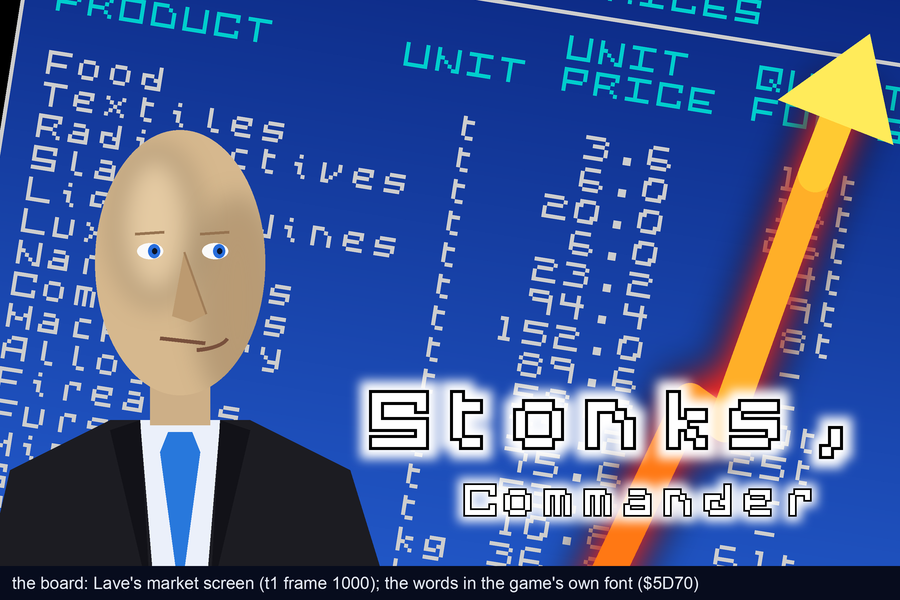
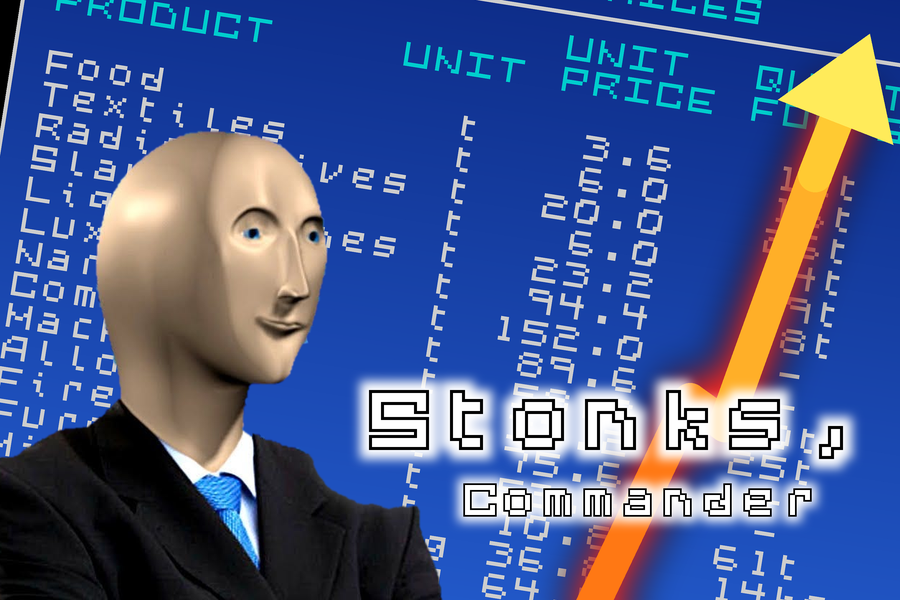
Elite trading guide: the original Meme Man in the Stonks, Commander picture, now the first one; the drawn card and the Graduation duplicate gone

Changed region(s): [[0.0, 0.21, 1.0, 1.0], [0.3422, 0.75, 0.4044, 0.84], [0.3422, 0.84, 0.3733, 0.87]]

diff --git a/games/elite/tools/fig_stonks_commander.py b/games/elite/tools/fig_stonks_commander.py
@@ -4,8 +4,9 @@ src/res/fonts/font.png), the font that writes RIGHT ON COMMANDER on the message 
 
     python3 tools/fig_stonks_commander.py       # -> docs/img/trading/stonks-commander.png
 
-The arrow and the man are those of tools/fig_stonks_card.py.
+The man is the meme's own Meme Man, cut out by tools/fig_mememan.py.
 """
+import math
 import os
 import sys
 
@@ -14,13 +15,14 @@ from PIL import Image, ImageDraw, ImageFilter
 HERE = os.path.dirname(os.path.abspath(__file__))
 sys.path.insert(0, HERE)
 sys.path.insert(0, os.path.join(HERE, '..', '..', '..', 'kit'))
-import fig_stonks_card as SC  # noqa: E402
 import res_formats as R  # noqa: E402
 import zxscreen as Z  # noqa: E402
 
-CASE = SC.CASE
-W, H, S = SC.W, SC.H, SC.S
+CASE = os.path.dirname(HERE)
+W, H = 900, 600
+S = 3  # drawn at 3x, then scaled down: smooth edges
 SCREEN = os.path.join(CASE, 'work', 't1', 'frames', '001000.scr')
+MAN = os.path.join(HERE, 'data', 'mememan.png')
 FONT = os.path.join(CASE, 'src', 'res', 'fonts', 'font.png')
 
 
@@ -39,6 +41,36 @@ def board():
     # the market's price columns sit on the left: shift the crop so the numbers fill the card behind the man
     cx, cy = big.width // 2 - 40 * S, big.height // 2 - 10 * S
     return big.crop((cx - W * S // 2, cy - H * S // 2, cx + W * S // 2, cy + H * S // 2))
+
+
+def arrow(img):
+    """the glowing arrow: a zigzag rising to the right, orange to yellow, a red glow under it"""
+    pts = [(590, 610), (690, 400), (725, 425), (815, 175)]
+    pts = [(x * S, y * S) for x, y in pts]
+    tip = (850 * S, 85 * S)
+    glow = Image.new('RGBA', img.size, (0, 0, 0, 0))
+    g = ImageDraw.Draw(glow)
+    g.line(pts + [tip], fill=(255, 40, 30, 255), width=60 * S, joint='curve')
+    glow = glow.filter(ImageFilter.GaussianBlur(18 * S))
+    img.alpha_composite(glow)
+    body = Image.new('RGBA', img.size, (0, 0, 0, 0))
+    b = ImageDraw.Draw(body)
+    full = pts + [tip]
+    for i in range(len(full) - 1):  # each segment its own shade, orange at the foot, yellow at the head
+        t = i / (len(full) - 1)
+        c = (255, int(120 + 110 * t), int(20 + 40 * t), 255)
+        b.line([full[i], full[i + 1]], fill=c, width=34 * S)
+        b.ellipse([full[i][0] - 17 * S, full[i][1] - 17 * S, full[i][0] + 17 * S, full[i][1] + 17 * S], fill=c)
+    # the head: a triangle along the last segment
+    (x0, y0), (x1, y1) = full[-2], full[-1]
+    a = math.atan2(y1 - y0, x1 - x0)
+    L, Wd = 95 * S, 62 * S
+    tipx, tipy = x1 + math.cos(a) * 55 * S, y1 + math.sin(a) * 55 * S
+    bx, by = tipx - math.cos(a) * L, tipy - math.sin(a) * L
+    px, py = math.cos(a + math.pi / 2) * Wd, math.sin(a + math.pi / 2) * Wd
+    head = [(tipx, tipy), (bx + px, by + py), (bx - px, by - py)]
+    b.polygon(head, fill=(255, 235, 90, 255))
+    img.alpha_composite(body)
 
 
 def spectrum_text(text, px):
@@ -73,14 +105,13 @@ def words(img, text, centre, px):
 
 def main():
     img = board().convert('RGBA')
-    SC.arrow(img)
-    SC.man(img)
+    arrow(img)
+    man = Image.open(MAN).convert('RGBA')
+    h = 470 * S
+    man = man.resize((man.width * h // man.height, h), Image.LANCZOS)
+    img.alpha_composite(man, (-10 * S, H * S - h))
     words(img, 'Stonks,', (615 * S, 420 * S), 9 * S)
     words(img, 'Commander', (640 * S, 500 * S), 5 * S)
-    d = ImageDraw.Draw(img)
-    d.rectangle([0, (H - 34) * S, W * S, H * S], fill=(8, 12, 30, 230))
-    d.text((12 * S, (H - 17) * S), "the board: Lave's market screen (t1 frame 1000); the words in the game's own font "
-           "($5D70)", font=SC.font('small', 17 * S), fill=(230, 235, 245), anchor='lm')
     out = os.path.join(CASE, 'docs', 'img', 'trading', 'stonks-commander.png')
     img.resize((W, H), Image.LANCZOS).convert('RGB').save(out)
     print('wrote', os.path.relpath(out, CASE))

diff --git a/games/elite/tools/fig_mememan.py b/games/elite/tools/fig_mememan.py
@@ -1,0 +1,50 @@
+"""Meme Man cut out of the original stonks meme (tools/data/stonks-meme.png) for the trading guide's mash-up:
+
+    python3 tools/fig_mememan.py                # -> tools/data/mememan.png (RGBA)
+
+GrabCut seeded with the man's rectangle; the meme's own word and its glow (right of the shoulder) masked out, and right of the neck only the dark suit kept (the word's glow lies there); the
+the shirt's V between the lapels added, the largest piece kept, its holes filled, the edge feathered.
+"""
+import os
+
+import cv2
+import numpy as np
+
+HERE = os.path.dirname(os.path.abspath(__file__))
+SRC = os.path.join(HERE, 'data', 'stonks-meme.png')
+OUT = os.path.join(HERE, 'data', 'mememan.png')
+
+
+def main():
+    img = cv2.imread(SRC)
+    h, w = img.shape[:2]
+    mask = np.zeros((h, w), np.uint8)
+    bg, fg = np.zeros((1, 65)), np.zeros((1, 65))
+    cv2.grabCut(img, mask, (0, 30, 640, h - 30), bg, fg, 8, cv2.GC_INIT_WITH_RECT)
+    m = np.where((mask == 1) | (mask == 3), 255, 0).astype(np.uint8)
+    m[:545, 480:] = 0  # the meme's "stonks"
+    # below the chin, right of the neck, the word's white glow lies on the shoulder: there only the dark suit counts
+    grey = cv2.cvtColor(img, cv2.COLOR_BGR2GRAY)
+    right = m[440:, 440:]
+    right[grey[440:, 440:] > 60] = 0
+    k = cv2.getStructuringElement(cv2.MORPH_ELLIPSE, (15, 15))
+    m[440:, 440:] = cv2.morphologyEx(cv2.morphologyEx(right, cv2.MORPH_OPEN, k), cv2.MORPH_CLOSE, k)
+    # the white collar and the blue tie: the tie is the board's blue and the collar touches the board, so GrabCut
+    # drops them; the V between the lapels is the man's
+    cv2.fillPoly(m, [np.array([(238, 492), (300, 528), (352, 482), (366, 492), (380, 560), (385, 700), (300, 700),
+                               (250, 540)], np.int32)], 255)
+    n, lab, st, _ = cv2.connectedComponentsWithStats(m)
+    m = np.where(lab == 1 + np.argmax(st[1:, cv2.CC_STAT_AREA]), 255, 0).astype(np.uint8)
+    fill = m.copy()
+    cv2.floodFill(fill, np.zeros((h + 2, w + 2), np.uint8), (w - 1, 0), 255)
+    m |= cv2.bitwise_not(fill)
+    m = cv2.GaussianBlur(cv2.erode(m, np.ones((3, 3), np.uint8)), (5, 5), 0)
+    ys, xs = np.nonzero(m)
+    x0, x1, y0 = xs.min(), xs.max() + 1, ys.min()
+    rgba = np.dstack([img, m])[y0:, x0:x1]
+    cv2.imwrite(OUT, rgba)
+    print('wrote', os.path.relpath(OUT, os.path.dirname(HERE)), rgba.shape[1], 'x', rgba.shape[0])
+
+
+if __name__ == '__main__':
+    main()

diff --git a/games/elite/tools/fig_trading.py b/games/elite/tools/fig_trading.py
@@ -356,15 +356,7 @@ def stonks(runs):
     for n in list(range(0, 121, 2)):
         pics.append(to_image(frame(n)))
         durs.append(90)
-    durs[-1] = 2500
-    # the punch line: the meme's card, its board made of the same medians
-    import fig_stonks_card as SC
-    cells = []
-    for s in T.SCHEMES:
-        cells += [('%d' % curves[s][0][-1], True), ('x%d' % (curves[s][0][-1] / curves[s][0][0]), True)]
-    w, h = pics[-1].size
-    pics.append(SC.card(cells, SC.CAPTION).resize((w, h)))
-    durs.append(4000)
+    durs[-1] = 4000
     K.save_gif(os.path.join(P.CASE, OUT, 'stonks.gif'), pics, durs)
     print('wrote', os.path.join(OUT, 'stonks.gif'), len(pics), 'pictures')
     for s in T.SCHEMES:

diff --git a/games/elite/docs/trading-guide.md b/games/elite/docs/trading-guide.md
@@ -7,11 +7,7 @@
 > <sub>* the median of 200 simulated commanders on the "mix" scheme, galaxy 1, run by the game's own market code.
 > Pirates not included. Past fluctuations are no guarantee of future fluctuations.</sub>
 
-![stonks: the meme's card, drawn for this course; the board's numbers are the league's medians](img/trading/stonks-card.png)
-
-**How to read it.** The meme's layout, drawn from scratch: the man in the suit, the arrow, the word. The board's
-cells are real: each scheme's median worth after 120 jumps from 100 Cr, and how many times over that is (x1235 is
-the mix). Drawn by `python3 tools/fig_stonks_card.py`.
+![Stonks, Commander](img/trading/stonks-commander.png)
 
 This is a get-rich-quick course with a twist: every number in it is real. Each "scheme" is pitched like a guru's
 lesson and then checked in a box called **What the code says**, with the mechanism, the numbers and the addresses.
@@ -36,8 +32,7 @@ Contents:
 4. [The league table](#the-league-table)
 5. [Lesson 2: the risk my competitors hide from you](#lesson-2-the-risk-my-competitors-hide-from-you)
 6. [Bonus tips for premium students](#bonus-tips-for-premium-students)
-7. [Graduation](#graduation)
-8. [Small print: how the numbers were made](#small-print-how-the-numbers-were-made)
+7. [Small print: how the numbers were made](#small-print-how-the-numbers-were-made)
 
 ## Lesson 0: the secret formula
 
@@ -317,8 +312,8 @@ the best load the cash allows, and flies where the expected profit, the fuel pai
 **How to read it.** The x axis is the jump, the y axis the worth on a log scale. The line is the median
 commander of each scheme, the band its 10 % to 90 % range. The dashed yellow line is the mix played "never sell
 below cost". The ticks on the right are the prices of the large cargo bay, the docking computers, the galactic
-hyperdrive and the whole equipment shop. The animation adds 2 jumps a picture and ends on the stonks card, whose
-board shows the same medians. Drawn by `python3 tools/fig_trading.py stonks` (one minute: 1200 commanders).
+hyperdrive and the whole equipment shop. The animation adds 2 jumps a picture. Drawn by
+`python3 tools/fig_trading.py stonks` (one minute: 1200 commanders).
 
 | Scheme | Worth at jump 120, median (10-90 %) | 400 Cr (bay) | 1500 Cr (docking computers) | 5000 Cr (hyperdrive) | 6000 Cr (military laser) | 10 000 Cr | 17 055 Cr (full shop) | danger a jump |
 | --- | ---: | ---: | ---: | ---: | ---: | ---: | ---: | ---: |
@@ -559,16 +554,6 @@ BuyCheckHold:
 
 The stock falls by the quantity, the cash by the price Quantity times, the free space only for tonnes, and the
 hold byte refuses past 255. The price word is never written.
-
-## Graduation
-
-*"Congratulations. You are now a certified space trader. Frame this certificate."*
-
-![Stonks, Commander: the meme made of Elite, Lave's market screen as the stock board](img/trading/stonks-commander.png)
-
-**How to read it.** The stonks card again, now built from the game: the stock board is Lave's real market screen
-as `t1` saw it (frame 1000), tilted and tinted blue; the words are set in the game's own font at `$5D70`, the one
-that prints RIGHT ON COMMANDER when the rating goes up ([10](10-gameplay-logic.md) 10.6). Drawn by `python3 tools/fig_stonks_commander.py`.
 
 ## Small print: how the numbers were made
 
